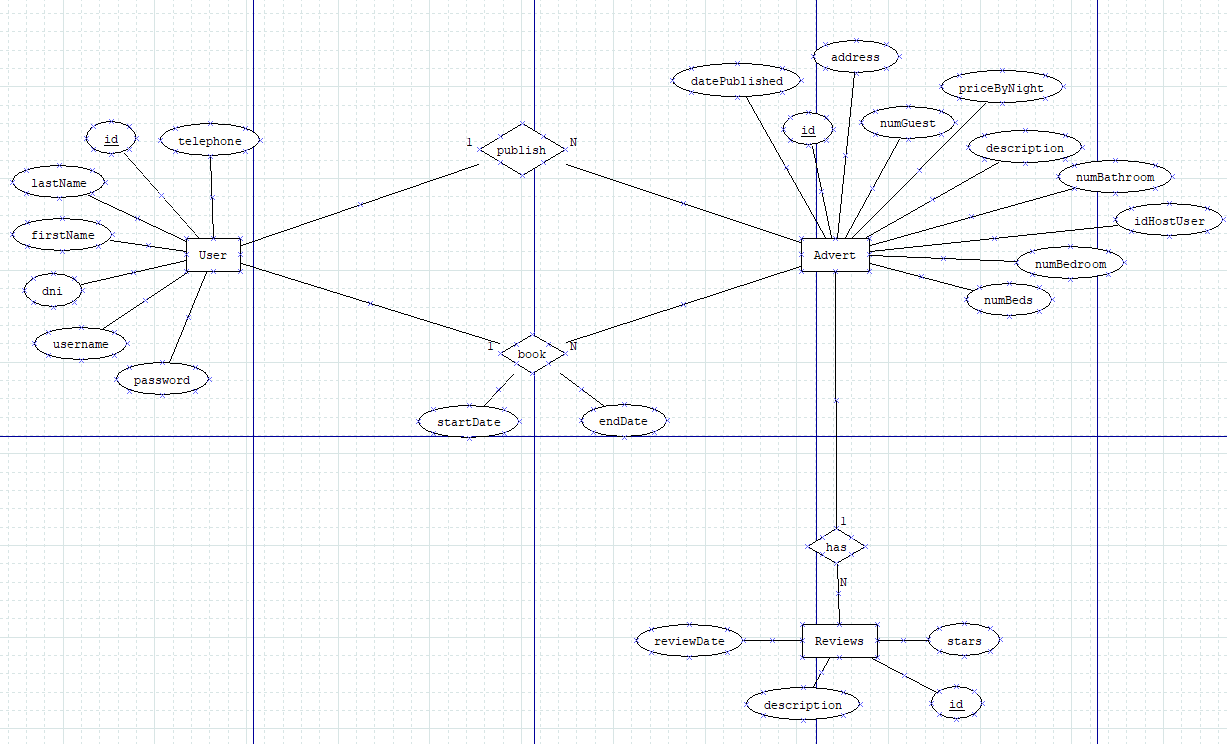
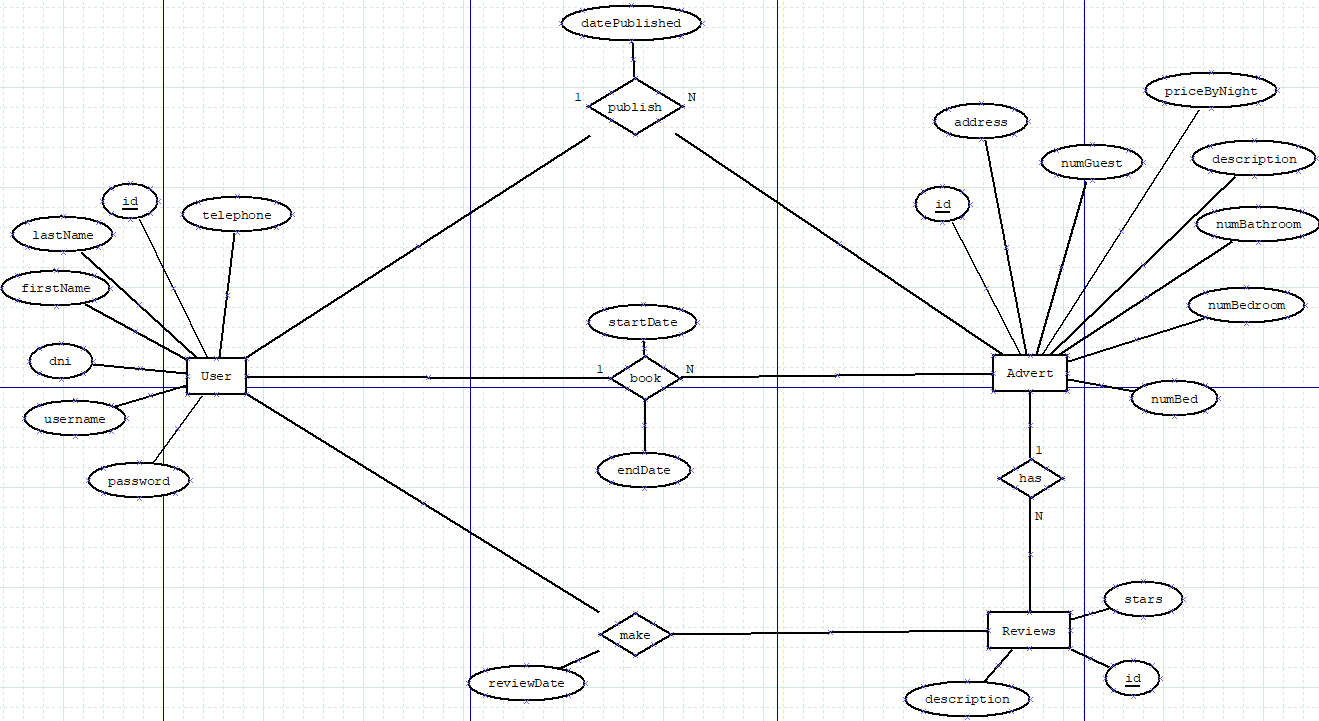
Fix backend and modelling.
Added all the foreign key to the backend. Also fix the E-R, a user can make a review. And on the Use Case, distinguish a user with register or without register.

diff --git a/FullStack/backend/src/main/java/com/aaron/backend/mutation/Mutation.java b/FullStack/backend/src/main/java/com/aaron/backend/mutation/Mutation.java
@@ -1,6 +1,7 @@
 package com.aaron.backend.mutation;
 
 import java.time.LocalDate;
+import java.util.Optional;
 
 import org.springframework.beans.factory.annotation.Autowired;
 import org.springframework.context.annotation.Bean;
@@ -51,14 +52,24 @@ public class Mutation implements GraphQLMutationResolver {
 
 	public Advert createAdvert(String description, String address, String published, float price, int guests,
 			int bathrooms, int bedrooms, int beds, long user) {
+		User u = null;
+		Optional<User> userInDB = userService.getUserById(user);
+		if (userInDB.isPresent()) {
+			u = userInDB.get();
+		}
 		return advertService.addAdvert(new Advert(description, address, LocalDate.parse(published), price, guests,
-				bathrooms, bedrooms, beds, user));
+				bathrooms, bedrooms, beds, u));
 	}
 
 	public Advert updateAdvert(long id, String description, String address, String published, float price, int guests,
 			int bathrooms, int bedrooms, int beds, long user) {
+		User u = null;
+		Optional<User> userInDB = userService.getUserById(user);
+		if (userInDB.isPresent()) {
+			u = userInDB.get();
+		}
 		return advertService.updateAdvert(id, new Advert(description, address, LocalDate.parse(published), price,
-				guests, bathrooms, bedrooms, beds, user));
+				guests, bathrooms, bedrooms, beds, u));
 	}
 
 	public boolean deleteAdvert(long id) {
@@ -67,11 +78,31 @@ public class Mutation implements GraphQLMutationResolver {
 	}
 
 	public Book createBook(long user, long advert, String start, String end) {
-		return bookService.addBook(new Book(user, advert, LocalDate.parse(start), LocalDate.parse(end)));
+		User u = null;
+		Optional<User> userInDB = userService.getUserById(user);
+		if (userInDB.isPresent()) {
+			u = userInDB.get();
+		}
+		Advert a = null;
+		Optional<Advert> advertInDB = advertService.getAdvertById(advert);
+		if (advertInDB.isPresent()) {
+			a = advertInDB.get();
+		}
+		return bookService.addBook(new Book(u, a, LocalDate.parse(start), LocalDate.parse(end)));
 	}
 
 	public Book updateBook(long id, long user, long advert, String start, String end) {
-		return bookService.updateBook(id, new Book(user, advert, LocalDate.parse(start), LocalDate.parse(end)));
+		User u = null;
+		Optional<User> userInDB = userService.getUserById(user);
+		if (userInDB.isPresent()) {
+			u = userInDB.get();
+		}
+		Advert a = null;
+		Optional<Advert> advertInDB = advertService.getAdvertById(advert);
+		if (advertInDB.isPresent()) {
+			a = advertInDB.get();
+		}
+		return bookService.updateBook(id, new Book(u, a, LocalDate.parse(start), LocalDate.parse(end)));
 	}
 
 	public boolean deleteBook(long id) {
@@ -80,11 +111,21 @@ public class Mutation implements GraphQLMutationResolver {
 	}
 
 	public Review createReview(String description, int stars, String published, long advert) {
-		return reviewService.addReview(new Review(description, stars, LocalDate.parse(published), advert));
+		Advert a = null;
+		Optional<Advert> advertInDB = advertService.getAdvertById(advert);
+		if (advertInDB.isPresent()) {
+			a = advertInDB.get();
+		}
+		return reviewService.addReview(new Review(description, stars, LocalDate.parse(published), a));
 	}
 
 	public Review updateReview(long id, String description, int stars, String published, long advert) {
-		return reviewService.updateReview(id, new Review(description, stars, LocalDate.parse(published), advert));
+		Advert a = null;
+		Optional<Advert> advertInDB = advertService.getAdvertById(advert);
+		if (advertInDB.isPresent()) {
+			a = advertInDB.get();
+		}
+		return reviewService.updateReview(id, new Review(description, stars, LocalDate.parse(published), a));
 	}
 
 	public boolean deleteReview(long id) {

diff --git a/FullStack/backend/src/main/java/com/aaron/backend/entity/models/Book.java b/FullStack/backend/src/main/java/com/aaron/backend/entity/models/Book.java
@@ -8,6 +8,8 @@ import javax.persistence.Entity;
 import javax.persistence.GeneratedValue;
 import javax.persistence.GenerationType;
 import javax.persistence.Id;
+import javax.persistence.JoinColumn;
+import javax.persistence.ManyToOne;
 import javax.persistence.Table;
 
 @Entity
@@ -20,11 +22,13 @@ public class Book implements Serializable {
 	@GeneratedValue(strategy = GenerationType.IDENTITY)
 	private long id;
 	
-	@Column
-	private long user;
+	@ManyToOne
+	@JoinColumn(name = "user")
+	private User user;
 	
-	@Column
-	private long advert;
+	@ManyToOne
+	@JoinColumn(name = "advert")
+	private Advert advert;
 	
 	@Column
 	private LocalDate start;
@@ -36,7 +40,7 @@ public class Book implements Serializable {
 		
 	}
 
-	public Book(long user, long advert, LocalDate start, LocalDate end) {
+	public Book(User user, Advert advert, LocalDate start, LocalDate end) {
 		super();
 		this.user = user;
 		this.advert = advert;
@@ -52,19 +56,19 @@ public class Book implements Serializable {
 		this.id = id;
 	}
 
-	public long getUser() {
+	public User getUser() {
 		return user;
 	}
 
-	public void setUser(long user) {
+	public void setUser(User user) {
 		this.user = user;
 	}
 
-	public long getAdvert() {
+	public Advert getAdvert() {
 		return advert;
 	}
 
-	public void setAdvert(long advert) {
+	public void setAdvert(Advert advert) {
 		this.advert = advert;
 	}
 

diff --git a/FullStack/backend/src/main/java/com/aaron/backend/entity/models/Review.java b/FullStack/backend/src/main/java/com/aaron/backend/entity/models/Review.java
@@ -8,6 +8,8 @@ import javax.persistence.Entity;
 import javax.persistence.GeneratedValue;
 import javax.persistence.GenerationType;
 import javax.persistence.Id;
+import javax.persistence.JoinColumn;
+import javax.persistence.ManyToOne;
 import javax.persistence.Table;
 
 @Entity
@@ -29,14 +31,15 @@ public class Review implements Serializable {
 	@Column
 	private LocalDate published;
 	
-	@Column
-	private long advert;
+	@ManyToOne
+	@JoinColumn(name = "advert")
+	private Advert advert;
 	
 	public Review() {
 		
 	}
 
-	public Review(String description, int stars, LocalDate published, long advert) {
+	public Review(String description, int stars, LocalDate published, Advert advert) {
 		super();
 		this.description = description;
 		this.stars = stars;
@@ -76,11 +79,11 @@ public class Review implements Serializable {
 		this.published = published;
 	}
 
-	public long getAdvert() {
+	public Advert getAdvert() {
 		return advert;
 	}
 
-	public void setAdvert(long advert) {
+	public void setAdvert(Advert advert) {
 		this.advert = advert;
 	}
 }

diff --git a/FullStack/backend/src/main/java/com/aaron/backend/entity/models/Advert.java b/FullStack/backend/src/main/java/com/aaron/backend/entity/models/Advert.java
@@ -8,6 +8,8 @@ import javax.persistence.Entity;
 import javax.persistence.GeneratedValue;
 import javax.persistence.GenerationType;
 import javax.persistence.Id;
+import javax.persistence.JoinColumn;
+import javax.persistence.ManyToOne;
 import javax.persistence.Table;
 
 @Entity
@@ -43,16 +45,17 @@ public class Advert implements Serializable {
 
 	@Column
 	private int beds;
-
-	@Column
-	private long user;
+	
+	@ManyToOne
+	@JoinColumn(name = "user")
+	private User user;
 
 	public Advert() {
 
 	}
 
 	public Advert(String description, String address, LocalDate published, float price, int guests, int bathrooms,
-			int bedrooms, int beds, long user) {
+			int bedrooms, int beds, User user) {
 		super();
 		this.description = description;
 		this.address = address;
@@ -137,11 +140,11 @@ public class Advert implements Serializable {
 		this.beds = beds;
 	}
 
-	public long getUser() {
+	public User getUser() {
 		return user;
 	}
 
-	public void setUser(long user) {
+	public void setUser(User user) {
 		this.user = user;
 	}
 }
